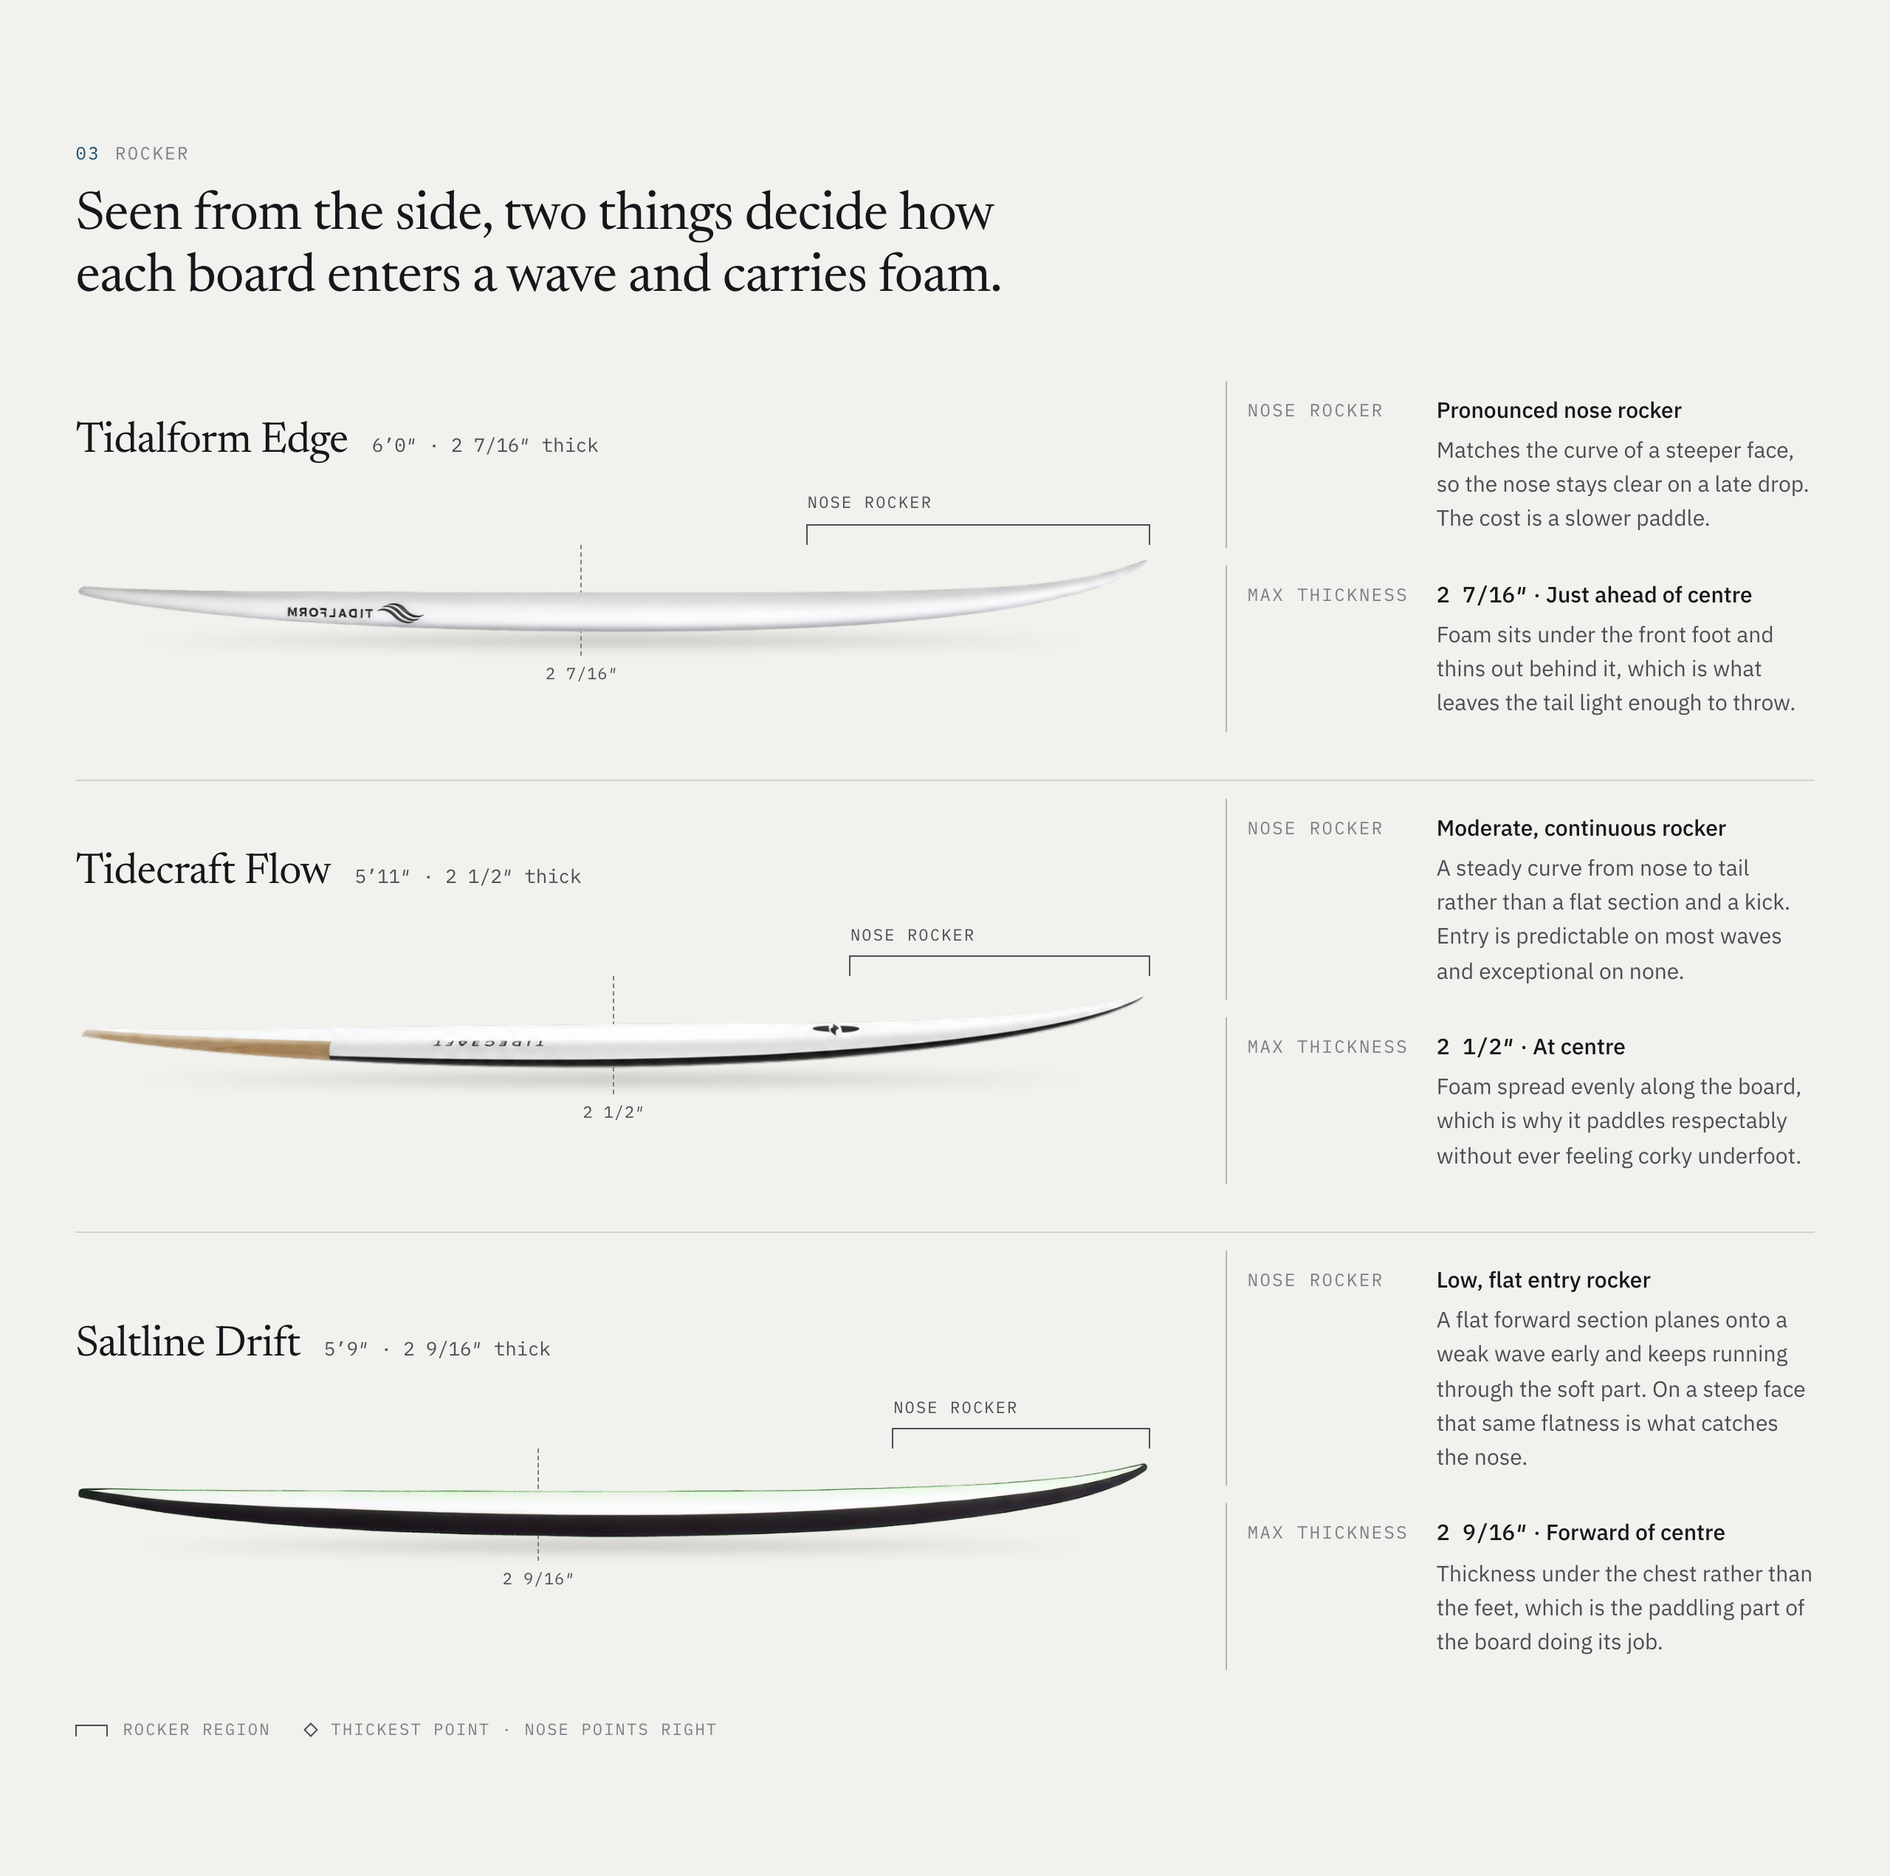
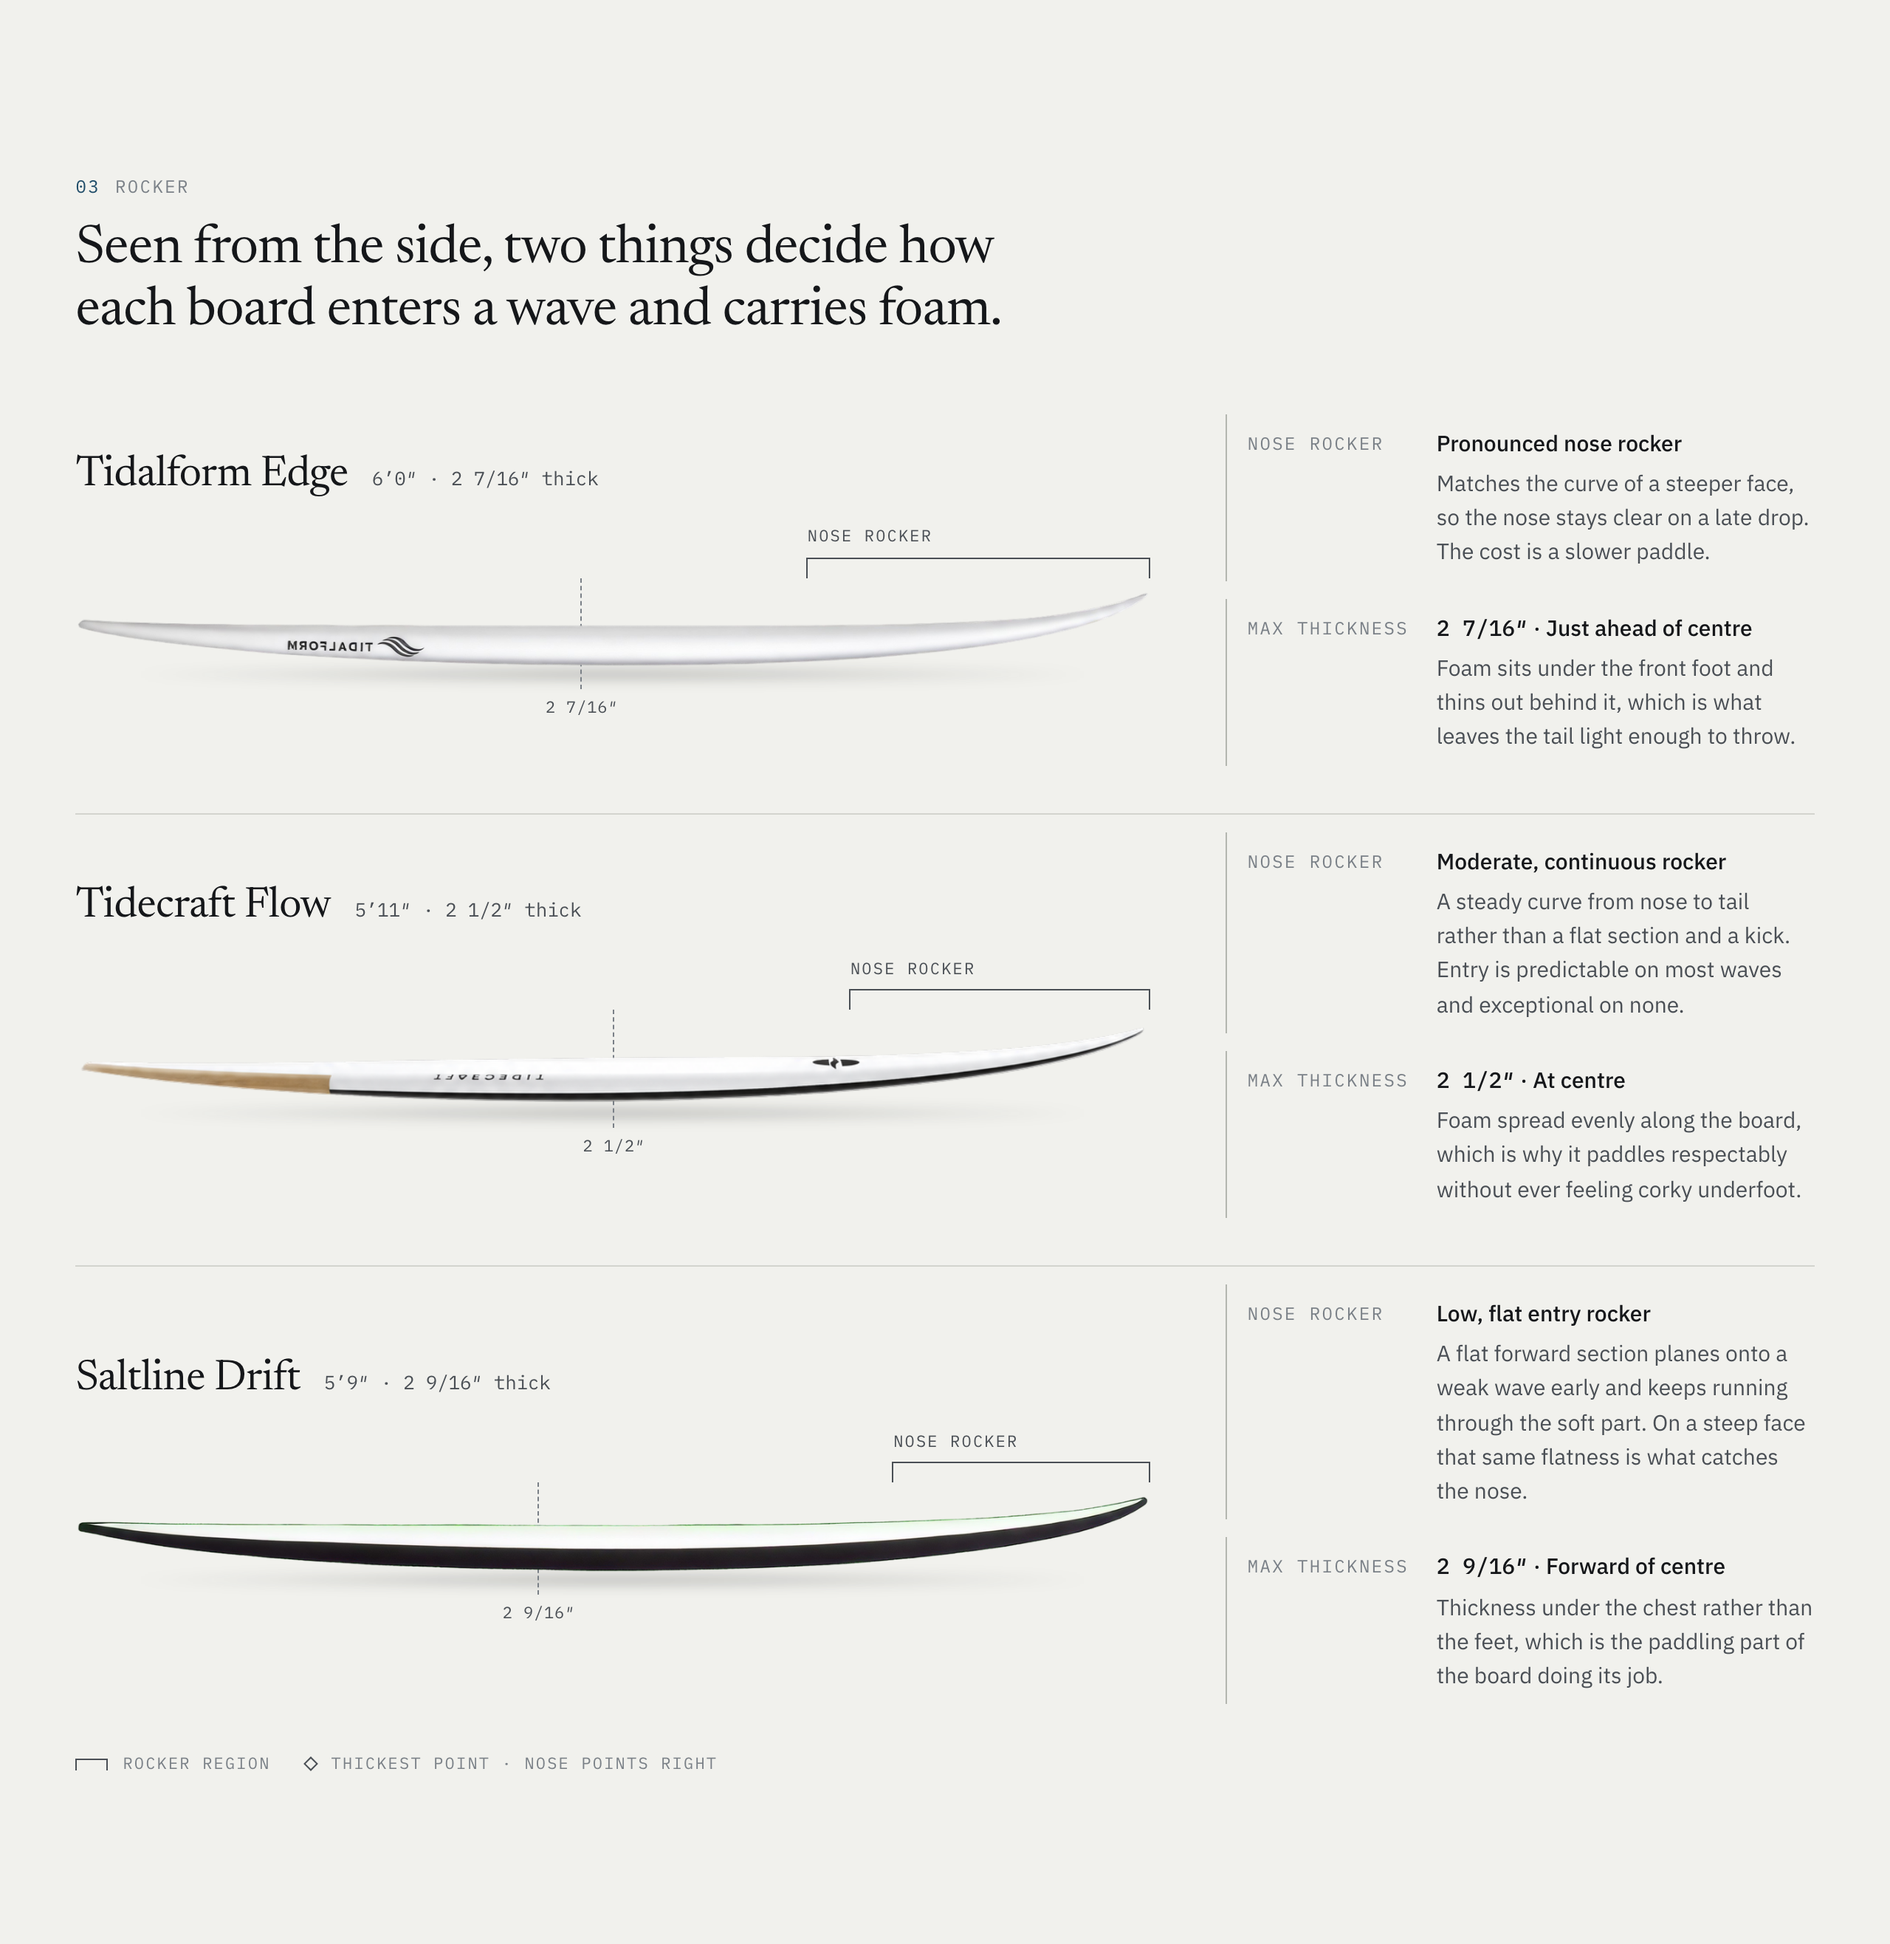
Balance the comparison grid
Reorder to Overview + Rocker, then Outline + Tail & Fins, so each row
pairs views of similar proportion.

The two screenshots in a row still differed slightly in height, so each
shorter one is padded with the app's own background (#f1f1ed, sampled
from its existing edges) to its partner's exact dimensions: rocker
gains 91px and outline 429px, split evenly top and bottom so the
interface sits centred rather than pushed up. Nothing is cropped,
stretched or rescaled, and both rows now render at one height with
their bottom edges and captions aligned.

diff --git a/projects/quiver.html b/projects/quiver.html
@@ -588,15 +588,15 @@
         </figure>
         <figure class="qv-fig">
           <div class="screen-mockup">
-            <img src="../assets/images/quiver-comparison-outline.png" alt="Comparison outline view: three board outlines overlaid and aligned at the tail" width="2560" height="1868" loading="lazy" data-lightbox>
+            <img src="../assets/images/quiver-comparison-rocker.png" alt="Comparison rocker view: side profiles with nose rocker and maximum thickness callouts" width="2560" height="2632" loading="lazy" data-lightbox>
           </div>
-          <figcaption>Outline &middot; overlaid, tail-aligned</figcaption>
+          <figcaption>Rocker &middot; side profiles</figcaption>
         </figure>
         <figure class="qv-fig">
           <div class="screen-mockup">
-            <img src="../assets/images/quiver-comparison-rocker.png" alt="Comparison rocker view: side profiles with nose rocker and maximum thickness callouts" width="2560" height="2541" loading="lazy" data-lightbox>
+            <img src="../assets/images/quiver-comparison-outline.png" alt="Comparison outline view: three board outlines overlaid and aligned at the tail" width="2560" height="2297" loading="lazy" data-lightbox>
           </div>
-          <figcaption>Rocker &middot; side profiles</figcaption>
+          <figcaption>Outline &middot; overlaid, tail-aligned</figcaption>
         </figure>
         <figure class="qv-fig">
           <div class="screen-mockup">
